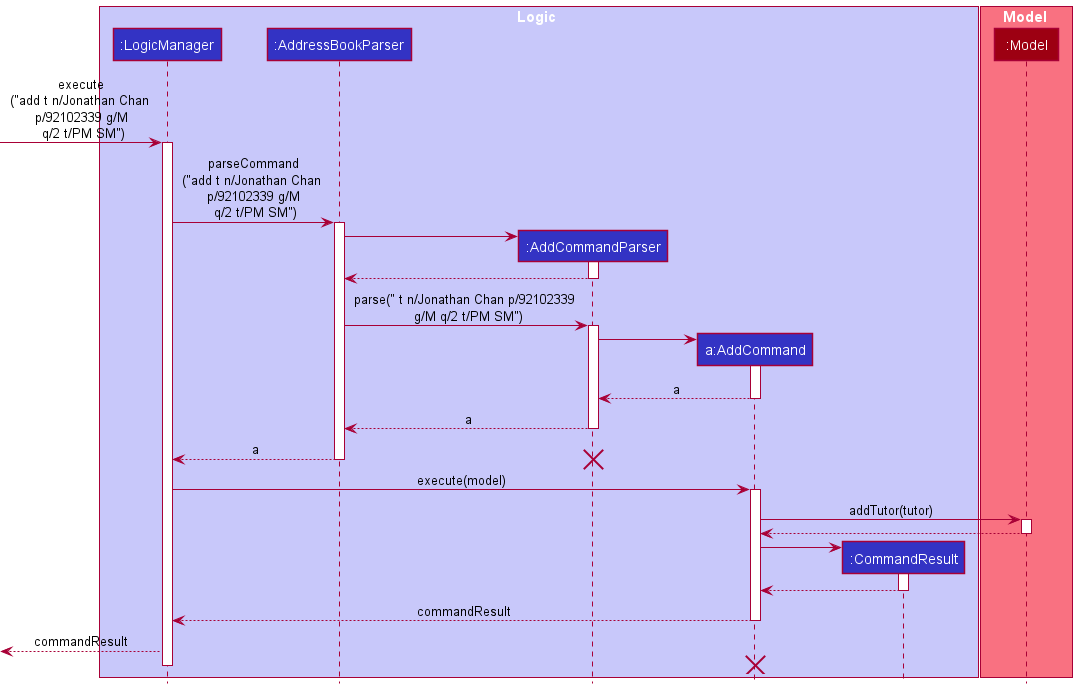
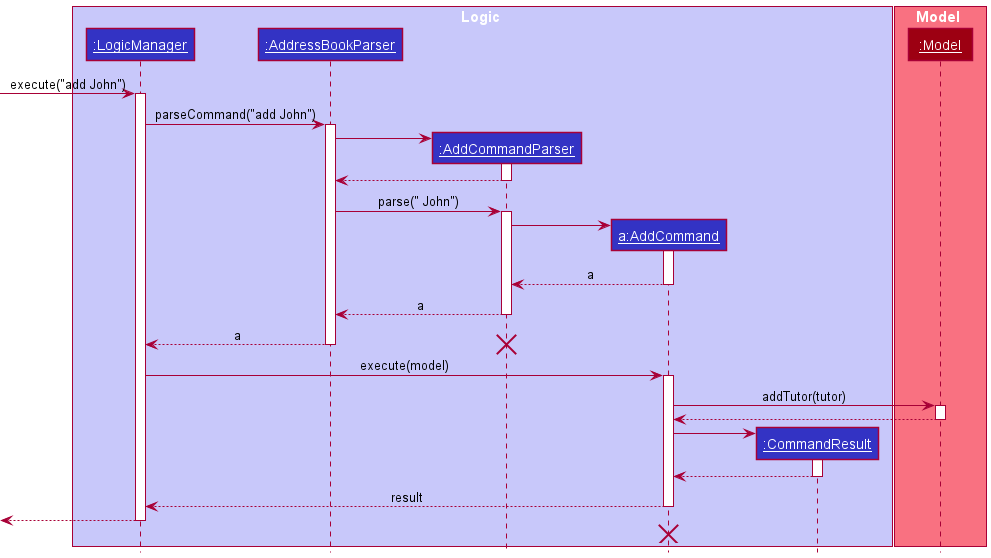
Edit Add and Find Commands

diff --git a/docs/DeveloperGuide.md b/docs/DeveloperGuide.md
@@ -191,11 +191,15 @@ Classes used by multiple components are in the `seedu.addressbook.commons` packa
 
 This section describes some noteworthy details on how certain features are implemented.
 
+<div markdown="span" class="alert alert-info"> :information_source: **Note:** The lifelines for `Parser`s and `Command`s in the sequence diagrams should end at the destroy marker (X) but due to a limitation of PlantUML, the lifelines reach the end of diagram.
+</div>
+
 ### Add feature
 
 #### What it is
 
-Adds a tutor or student to the tutor or student list respectively. The `add` command must have all the fields required for student and tutor.
+Adds a tutor/student to the tutor/student list respectively. The `add` command must have all the fields required for tutor/student.
+
 #### Implementation details
 
 ##### Sequence of action
@@ -203,23 +207,26 @@ Adds a tutor or student to the tutor or student list respectively. The `add` com
 
 Given below is an example usage scenario and how the `add` command implementation behaves at each step:
 
-1. The user input (for e.g `"add t n/Jonathan Chan p/92102339 g/M q/2 t/PM SM"`) is handled by the `CommandBox` class in the Ui component, before being passed to `LogicManager` to be executed.
-2. `LogicManager` calls on `AddressBookParser`'s `parseCommand()` method which in turns creates a new `AddCommandParser`.
-3. The `AddCommandParser` calls its own `parse()` method which will return a new `AddCommand` if the input is valid.
-4. `AddCommand` will then update the tutor list using the method `model#addTutor()` in the `Model` class.
+1. The user input `add t n/Jonathan Chan p/92102339 g/M q/2 t/PM SM` is passed to `LogicManager` to be executed.
+2. `LogicManager` calls on `AddressBookParser#parseCommand` method which in turn creates a new `AddCommandParser`.
+3. The method `AddCommandParser#parse` is then called which will return a new `AddCommand` if the input is valid.
+4. `AddCommand` will then update the tutor list using the method `model#addTutor` in the `Model` class.
 5. Lastly, a new `CommandResult` with the success message is returned to the `LogicManager`.
 
 Given below is a sequence diagram to show how the `add` implementation works:
 
+`t n/Johnathan Chan \n p/92102339 g/M \n q/2 t/PM SM` is shortened to `John` in the diagram to prevent clutter.
+
 ![AddCommandSequenceDiagram](images/AddCommandSequenceDiagram.png)
 
-Given below is an activity diagram to show how the `add` command works:
+Given below is an activity diagram to show how the `add` command works for a tutor:
 
 ![AddCommandActivityDiagram](images/AddCommandActivityDiagram.png)
 
 #### Design Considerations:
 
 ##### Aspect: How `add` executes
+{:.no_toc}
 
 - **Alternative 1 (current choice)**: User must `add` using all the required prefixes.
     - Pros: It prevents the potential matching of tutors and students to have missing fields that are required when matching.
@@ -311,7 +318,7 @@ Given below is an activity diagram to show how the `edit` command works:
 ### List feature
 #### What it is
 
-Lists all tutors or students in the list. The `list` command only accepts `s` or `t` as a parameter
+Lists all tutors/students in the list. The `list` command only accepts `s` or `t` as a preamble.
 #### Implementation details
 
 ##### Sequence of action
@@ -319,9 +326,9 @@ Lists all tutors or students in the list. The `list` command only accepts `s` or
 
 Given below is an example usage scenario and how the `list` command implementation behaves at each step:
 
-1. The user input (for e.g `"list s"`) is handled by the `CommandBox` class in the Ui component, before being passed to `LogicManager` to be executed.
-2. `LogicManager` calls on `AddressBookParser`'s `parseCommand()` method which in turns creates a new `ListCommandParser`.
-3. The `ListCommandParser` calls its own `parse()` method which will return a new `ListCommand` if the input is valid.
+1. The user input `list s` is passed to LogicManager to be executed.
+2. `LogicManager` calls the `AddressBookParser#parseCommand` method which in turn creates a new `ListCommandParser`.
+3. The method `ListCommandParser#parse`is then called which will return a new `ListCommand` if the input is valid.
 4. `ListCommand` will then show all students in the student list in the `Model` class.
 5. Lastly, a new `CommandResult` with the success message is returned to the `LogicManager`.
 
@@ -329,20 +336,21 @@ Given below is a sequence diagram to show how the `list` implementation works:
 
 ![ListCommandSequenceDiagram](images/ListCommandSequenceDiagram.png)
 
-Given below is an activity diagram to show how the `list` command works:
+Given below is an activity diagram to show how the `list s` command works:
 
 ![ListCommandActivityDiagram](images/ListCommandActivityDiagram.png)
 
 #### Design Considerations:
 
 ##### Aspect: How `list` executes
+{:.no_toc}
 
 - **Alternative 1 (current choice)**: User must specify which list that they would like to see.
-    - Pros: It allows the user to not remove any filters they have on the other list.
+    - Pros: It allows the user to act on each list independently.
     - Cons: It is troublesome to type the command twice if the user wanted to view all the tutors and students.
 - **Alternative 2**: User inputs `list` and all tutors and student are shown.
-    - Pros: Simpler for the user to input.
-    - Cons: Will remove any filters they had on a list that they did not want to remove and show all the students/tutors.
+    - Pros: Simpler for the user to list all tutors and students.
+    - Cons: Will remove any filters they had on a list that they did not want to remove and show all the tutors/students.
 
 ### Find feature
 
